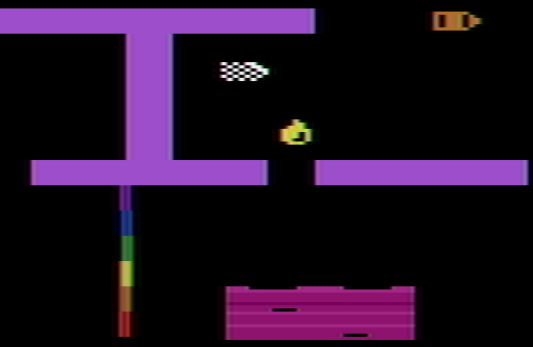
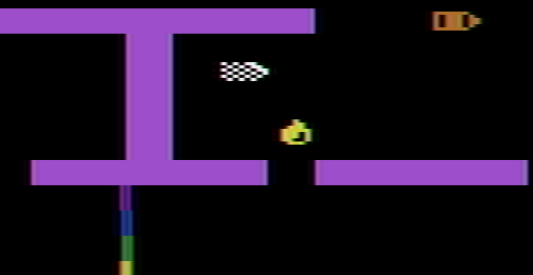
more details

diff --git a/index.md b/index.md
@@ -59,6 +59,11 @@ At the bottom of the screen are drains that you can steer the droplets into to r
 
 If you over-color a crayon, or hit the wall with your color droplet, more `murple` will collect in the vat.  If the vat overflows, you lose!
 
+### Over Production
+Be sure not to make too much of any single color.  Your goal is the vertical line.  If you make so much that one of the inventory lines touch the murple vat, you lose!
+
+![Getting to be too much](/murple/assets/img/too-much-1.png) ![Too much you lose](/murple/assets/img/too-much-2.png)
+
 ### Continue after Losing
 If you lose, you can still opt to keep playing from the current level, but your score will be reset to zero.
 
@@ -94,6 +99,18 @@ Rainbow colored squares.  Hit these to change the color of your droplet.
 ### Moving Obstacles
 These look like color changing pellets, but are the same color as the playfield, and moving.  Avoid hitting these as they'll pop your droplet and you'll take damage.
 
+### Coloring a Perfect Round
+A `perfect round` is when you complete coloring all 6 crayons on screen, each with a unique color (red, yellow, blue, orange, purple, green).
+
+![Example Perfect Round](/murple/assets/img/perfect-round.png)
+
+There are several benefits to coloring a perfect round--and this should always be your goal when possible:
+
+* You receive an extra `500` points.
+* You receive a bonus column of inventory--an extra crayon of every color.  But if you are near the goal line, the bonus inventory will not be applied to any colors that would otherwise exceed the goal, thus avoiding any overstock score penalty.
+* The game plays an extra tune `:)`
+* An observant reader may ask "but if I get an extra column of inventory, doesn't that mean I have less opportunity to score points?"  Great question!  The answer is: yes, you don't have to color in as many crayons, but No: the `500` is worth more than a full set of crayons (`300`), so you still come out ahead.
+
 
 ## Difficulty
 At the start of the game, players can select from `easy`, `medium`, and `hard`.
@@ -110,7 +127,32 @@ Use the `left difficulty switch` to control long/short game mode.
 Note that the longer game mode / harder difficulty mean a higher maximum possible score.
 
 ## Scoring
-Coming soon.  Todo: chart of score values, note about difficulty and perfect-row bonus, max possible score per difficulty A/B game mode.
+| Action | Score Amount |
+|--------|---------------
+| Fully color a Crayon | `10` |
+| Tally a completed Crayon in the inventory | `40` |
+| Complete a perfect round (one of each color)  | `500` |
+| Complete a Level (Easy/Medium difficulty) | `1000` |
+| Complete a Level (Hard difficulty) | `2000` |
+
+Note that you get an extra bonus on Hard difficulty, and that the number of crayons required to complete a level vary, thus the maxium possible score varies.  Also note that there are a total of `15` levels.
+
+A perfect score for a level is acheived by filling in crayons perfectly--one of every color, every time.  Thus getting the perfect round bonus (`+500`).  Also, you have to not have any excess murple or inventory left over, as they result in reduced points at the end of the level.  Completing a round of crayons will award a small murple/damage reduction.  Completing a perfect round will award an even bigger reduction.
+
+### Maximum Score Per Game Mode
+| Difficulty | Left Difficulty Switch | Crayons Per Level | Max Possible Score |
+|---|---|---|----|
+| `Easy` | `B` | `6` of each color | `51,000` |
+| `Easy` | `A` | `8` of each color | `63,000` |
+| `Medium` | `B` | `7` of each color | `63,000` |
+| `Medium` | `A` | `9` of each color | `75,000` |
+| `Hard` | `B` | `8` of each color | `78,000` |
+| `Hard` | `A` | `10` of each color | `90,000` |
+
+### Score Penalties
+When you complete a level, you will receive a level bonus (`1000`, or `2000` on hard difficulty).  But you will also lose points for any extra murple in the vat (up to ~`-200` if the vat is really full), and for any "overstock" manufactured crayons.  Meaning, any finished crayon colors that pass the goal line will result in a score penalty.  The penalty is `-250` points per *column* of overstock. 
+
+* **TIP:** it is better to overstock crayons of different colors than by a bunch of the same color.  The penalty is per column, so for example, you recieve a bigger penalty for having 3 extra green crayons past the goal line than having 5 extra crayons, each of a different color.  So when you are trying to finish the last round of crayons to beat a level, and you have an uneven amount of inventory, try and "spread out" which colors are over the line versus a single line growing too long.
 
 ## Tips & Tricks
 * Hold `Up` while moving--in harder difficulties and later levels, this is required to make it through tight turns!
